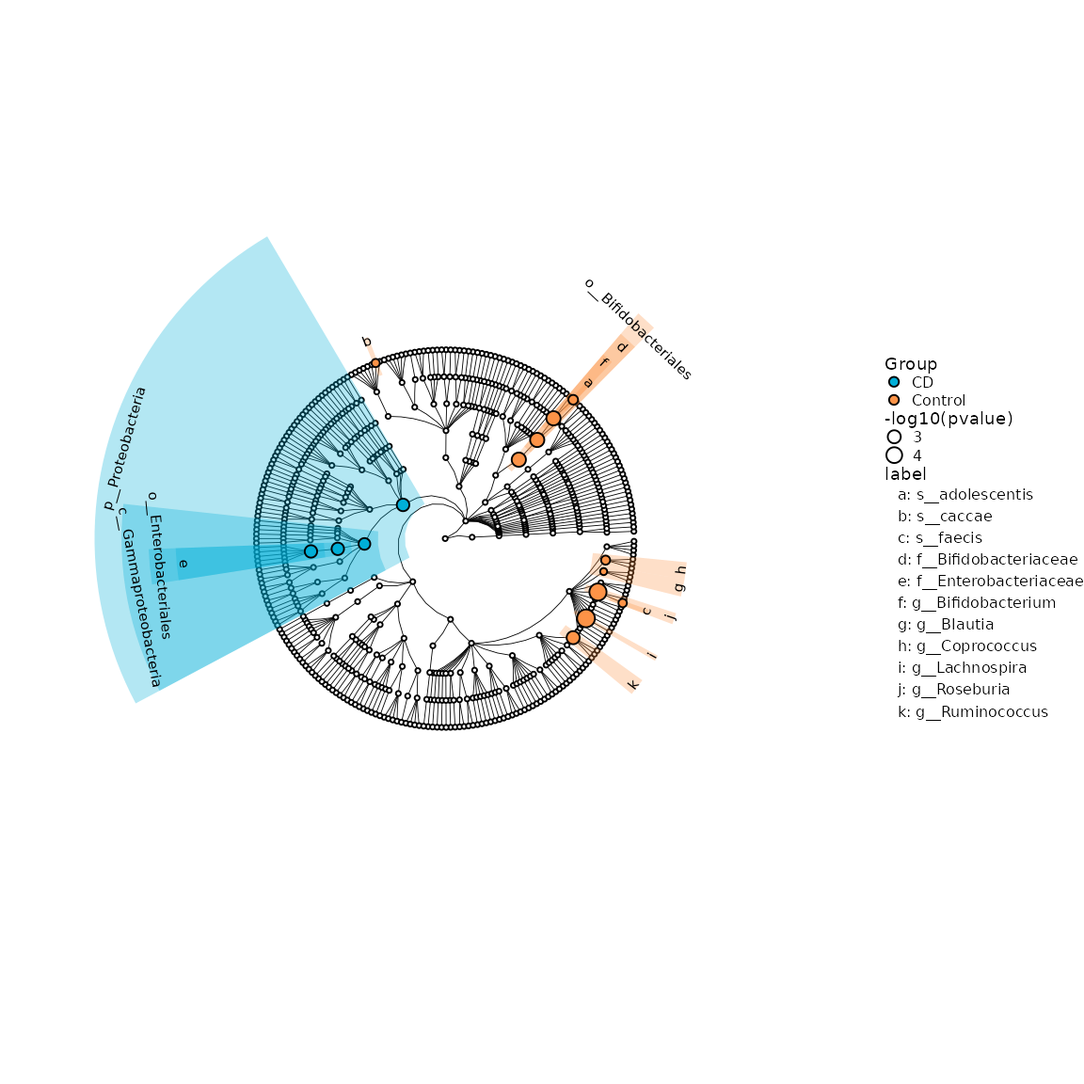
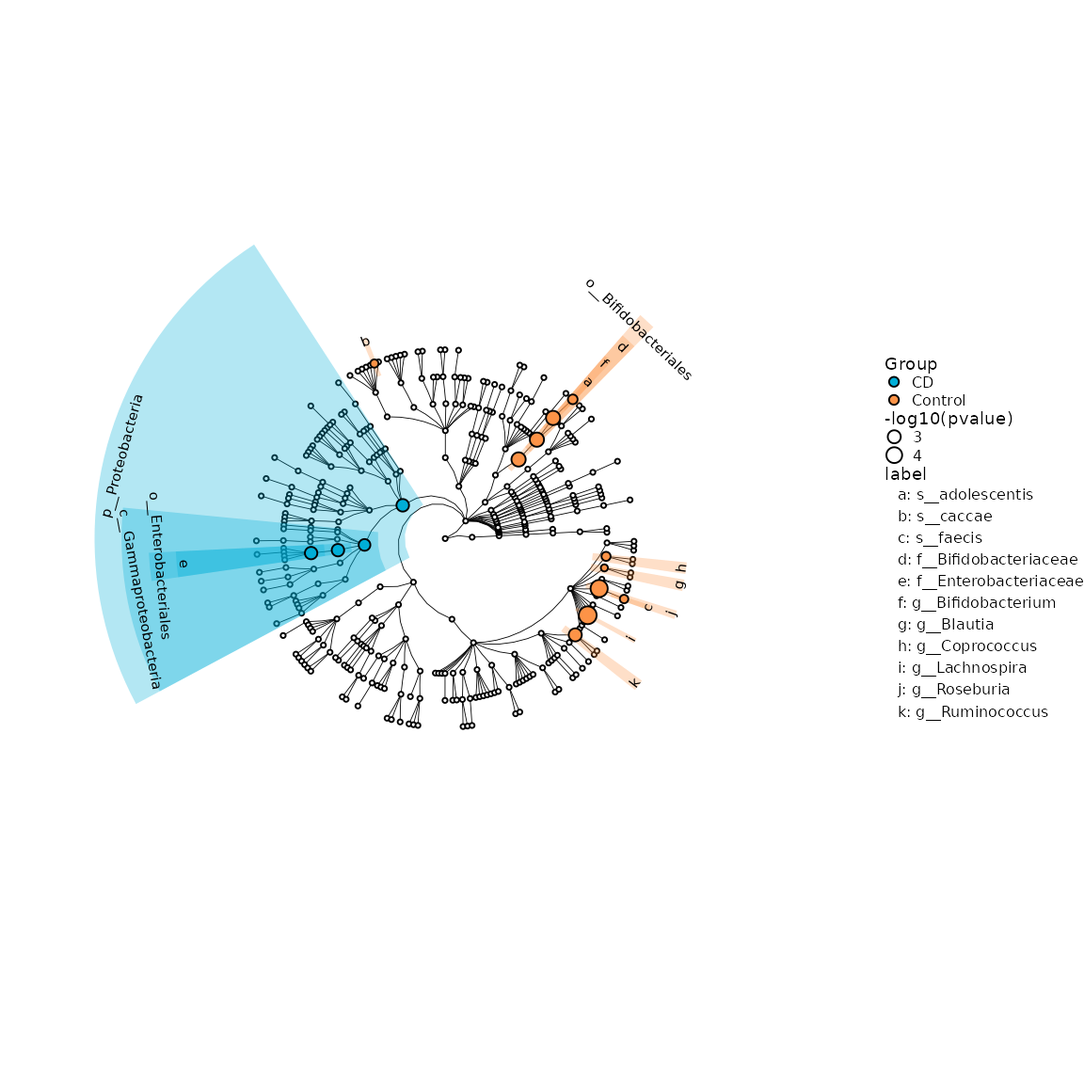
Deploying to gh-pages from  @ c947449fc275c5dd3808da46b4ffad3d5383f90d 🚀

Changed region(s): [[0.0938, 0.2812, 0.625, 0.6875], [0.2188, 0.2188, 0.2812, 0.2812], [0.5312, 0.25, 0.5625, 0.2812]]

diff --git a/articles/MicrobiotaProcessWorkshop.html b/articles/MicrobiotaProcessWorkshop.html
@@ -97,6 +97,9 @@
     <span class="kw"><a href="https://rdrr.io/r/base/library.html">library</a></span><span class="op">(</span><span class="va"><a href="http://ggplot2.tidyverse.org">ggplot2</a></span><span class="op">)</span>
     <span class="kw"><a href="https://rdrr.io/r/base/library.html">library</a></span><span class="op">(</span><span class="va"><a href="http://tidyverse.tidyverse.org">tidyverse</a></span><span class="op">)</span>
     <span class="kw"><a href="https://rdrr.io/r/base/library.html">library</a></span><span class="op">(</span><span class="va"><a href="https://cran.r-project.org">vegan</a></span><span class="op">)</span>
+    <span class="kw"><a href="https://rdrr.io/r/base/library.html">library</a></span><span class="op">(</span><span class="va"><a href="http://coin.r-forge.r-project.org">coin</a></span><span class="op">)</span>
+    <span class="kw"><a href="https://rdrr.io/r/base/library.html">library</a></span><span class="op">(</span><span class="va"><a href="https://github.com/hadley/reshape">reshape2</a></span><span class="op">)</span>
+    <span class="kw"><a href="https://rdrr.io/r/base/library.html">library</a></span><span class="op">(</span><span class="va">ggnewscale</span><span class="op">)</span>
 <span class="op">}</span><span class="op">)</span></pre></div>
 <p>Here, we use the 43 pediatric IBD stool samples as example, obtained from the Integrative Human Microbiome Project Consortium (iHMP).</p>
 </div>
@@ -402,16 +405,18 @@ Example of PCoA of samples
                   layout <span class="op">=</span> <span class="st">"rectangular"</span>,
                   pointsize<span class="op">=</span><span class="fl">1</span>,
                   fontsize<span class="op">=</span><span class="fl">0</span>,
-                  factorNames<span class="op">=</span><span class="fu"><a href="https://rdrr.io/r/base/c.html">c</a></span><span class="op">(</span><span class="st">"Group"</span><span class="op">)</span><span class="op">)</span> <span class="op">+</span>
+                  factorNames<span class="op">=</span><span class="fu"><a href="https://rdrr.io/r/base/c.html">c</a></span><span class="op">(</span><span class="st">"Group"</span><span class="op">)</span>
+              <span class="op">)</span> <span class="op">+</span>
               <span class="fu"><a href="https://ggplot2.tidyverse.org/reference/scale_manual.html">scale_color_manual</a></span><span class="op">(</span>values<span class="op">=</span><span class="fu"><a href="https://rdrr.io/r/base/c.html">c</a></span><span class="op">(</span><span class="st">"#00AED7"</span>, <span class="st">"#FD9347"</span><span class="op">)</span><span class="op">)</span> <span class="op">+</span>
-          <span class="fu"><a href="https://rdrr.io/pkg/ggtree/man/theme_tree2.html">theme_tree2</a></span><span class="op">(</span>legend.position<span class="op">=</span><span class="st">"right"</span>,
+              <span class="fu"><a href="https://rdrr.io/pkg/ggtree/man/theme_tree2.html">theme_tree2</a></span><span class="op">(</span>legend.position<span class="op">=</span><span class="st">"right"</span>,
               plot.title <span class="op">=</span> <span class="fu"><a href="https://ggplot2.tidyverse.org/reference/element.html">element_text</a></span><span class="op">(</span>face<span class="op">=</span><span class="st">"bold"</span>, lineheight<span class="op">=</span><span class="fl">25</span>,hjust<span class="op">=</span><span class="fl">0.5</span><span class="op">)</span><span class="op">)</span>
 <span class="co"># circular layout</span>
 <span class="va">cplot2</span> <span class="op">&lt;-</span> <span class="fu"><a href="https://rdrr.io/pkg/MicrobiotaProcess/man/ggclust.html">ggclust</a></span><span class="op">(</span>obj<span class="op">=</span><span class="va">hcsample</span>,
                   layout <span class="op">=</span> <span class="st">"circular"</span>,
-              pointsize<span class="op">=</span><span class="fl">1</span>,
-              fontsize<span class="op">=</span><span class="fl">2</span>,
-             factorNames<span class="op">=</span><span class="fu"><a href="https://rdrr.io/r/base/c.html">c</a></span><span class="op">(</span><span class="st">"Group"</span><span class="op">)</span><span class="op">)</span> <span class="op">+</span>
+                  pointsize<span class="op">=</span><span class="fl">1</span>,
+                  fontsize<span class="op">=</span><span class="fl">2</span>,
+                  factorNames<span class="op">=</span><span class="fu"><a href="https://rdrr.io/r/base/c.html">c</a></span><span class="op">(</span><span class="st">"Group"</span><span class="op">)</span>
+          <span class="op">)</span> <span class="op">+</span>
           <span class="fu"><a href="https://ggplot2.tidyverse.org/reference/scale_manual.html">scale_color_manual</a></span><span class="op">(</span>values<span class="op">=</span><span class="fu"><a href="https://rdrr.io/r/base/c.html">c</a></span><span class="op">(</span><span class="st">"#00AED7"</span>, <span class="st">"#FD9347"</span><span class="op">)</span><span class="op">)</span> <span class="op">+</span>
           <span class="fu"><a href="https://ggplot2.tidyverse.org/reference/theme.html">theme</a></span><span class="op">(</span>legend.position<span class="op">=</span><span class="st">"right"</span><span class="op">)</span>
 <span class="va">cplot1</span> <span class="op">|</span> <span class="va">cplot2</span></pre></div>
@@ -465,6 +470,7 @@ Example of hierarchical clustering of samples
                    layout<span class="op">=</span><span class="st">"radial"</span>,
                    taxlevel<span class="op">=</span><span class="fl">3</span>, 
                    removeUnkown<span class="op">=</span><span class="cn">TRUE</span>,
+                   reduce<span class="op">=</span><span class="cn">TRUE</span> <span class="co"># This argument is to remove the branch of unknown taxonomy.</span>
                <span class="op">)</span> <span class="op">+</span>
                <span class="fu"><a href="https://ggplot2.tidyverse.org/reference/scale_manual.html">scale_fill_manual</a></span><span class="op">(</span>
                    values<span class="op">=</span><span class="fu"><a href="https://rdrr.io/r/base/c.html">c</a></span><span class="op">(</span><span class="st">"#00AED7"</span>, <span class="st">"#FD9347"</span><span class="op">)</span>
@@ -535,6 +541,78 @@ Example of effect size of biomarker
 </p>
 </div>
 </div>
+<div id="correlation-of-taxonomy" class="section level2">
+<h2 class="hasAnchor">
+<a href="#correlation-of-taxonomy" class="anchor"></a>Correlation of taxonomy</h2>
+<p>The result of different analysis also can be visualized with result of correlation.</p>
+<div class="sourceCode" id="cb20"><pre class="downlit">
+<span class="va">genustab</span> <span class="op">&lt;-</span> <span class="fu"><a href="https://rdrr.io/pkg/MicrobiotaProcess/man/get_taxadf.html">get_taxadf</a></span><span class="op">(</span><span class="va">ps</span>, taxlevel<span class="op">=</span><span class="fl">6</span><span class="op">)</span>
+<span class="va">genustab</span> <span class="op">&lt;-</span> <span class="fu"><a href="https://rdrr.io/r/base/data.frame.html">data.frame</a></span><span class="op">(</span><span class="fu"><a href="https://rdrr.io/pkg/phyloseq/man/transpose-methods.html">t</a></span><span class="op">(</span><span class="va">genustab</span><span class="op">@</span><span class="va">otu_table</span><span class="op">)</span>, check.names<span class="op">=</span><span class="cn">FALSE</span><span class="op">)</span>
+<span class="va">genustab</span> <span class="op">&lt;-</span> <span class="fu"><a href="https://rdrr.io/r/base/data.frame.html">data.frame</a></span><span class="op">(</span><span class="fu"><a href="https://rdrr.io/r/base/apply.html">apply</a></span><span class="op">(</span><span class="va">genustab</span>, <span class="fl">2</span>, <span class="kw">function</span><span class="op">(</span><span class="va">x</span><span class="op">)</span><span class="va">x</span><span class="op">/</span><span class="fu"><a href="https://rdrr.io/r/base/sum.html">sum</a></span><span class="op">(</span><span class="va">x</span><span class="op">)</span><span class="op">)</span>, check.names<span class="op">=</span><span class="cn">FALSE</span><span class="op">)</span>
+
+<span class="va">cortest</span> <span class="op">&lt;-</span> <span class="fu">WGCNA</span><span class="fu">::</span><span class="fu"><a href="https://rdrr.io/pkg/WGCNA/man/corAndPvalue.html">corAndPvalue</a></span><span class="op">(</span><span class="va">genustab</span>, method<span class="op">=</span><span class="st">"spearman"</span>, alternative<span class="op">=</span><span class="st">"two.sided"</span><span class="op">)</span>
+<span class="va">cortest</span><span class="op">$</span><span class="va">cor</span><span class="op">[</span><span class="fu"><a href="https://rdrr.io/r/base/lower.tri.html">upper.tri</a></span><span class="op">(</span><span class="va">cortest</span><span class="op">$</span><span class="va">cor</span>, diag <span class="op">=</span> <span class="cn">TRUE</span><span class="op">)</span><span class="op">]</span> <span class="op">&lt;-</span> <span class="cn">NA</span>
+<span class="va">cortest</span><span class="op">$</span><span class="va">p</span><span class="op">[</span><span class="fu"><a href="https://rdrr.io/r/base/lower.tri.html">upper.tri</a></span><span class="op">(</span><span class="va">cortest</span><span class="op">$</span><span class="va">p</span>, diag <span class="op">=</span> <span class="cn">TRUE</span><span class="op">)</span><span class="op">]</span> <span class="op">&lt;-</span> <span class="cn">NA</span>
+<span class="va">cortab1</span> <span class="op">&lt;-</span> <span class="fu"><a href="https://rdrr.io/r/stats/na.fail.html">na.omit</a></span><span class="op">(</span><span class="fu"><a href="https://rdrr.io/pkg/reshape2/man/melt.html">melt</a></span><span class="op">(</span><span class="fu"><a href="https://rdrr.io/pkg/phyloseq/man/transpose-methods.html">t</a></span><span class="op">(</span><span class="va">cortest</span><span class="op">$</span><span class="va">cor</span><span class="op">)</span><span class="op">)</span><span class="op">)</span> <span class="op">%&gt;%</span> <span class="fu">rename</span><span class="op">(</span>from<span class="op">=</span><span class="va">Var1</span>,to<span class="op">=</span><span class="va">Var2</span>,cor<span class="op">=</span><span class="va">value</span><span class="op">)</span>
+<span class="va">corptab1</span> <span class="op">&lt;-</span> <span class="fu"><a href="https://rdrr.io/r/stats/na.fail.html">na.omit</a></span><span class="op">(</span><span class="fu"><a href="https://rdrr.io/pkg/reshape2/man/melt.html">melt</a></span><span class="op">(</span><span class="fu"><a href="https://rdrr.io/pkg/phyloseq/man/transpose-methods.html">t</a></span><span class="op">(</span><span class="va">cortest</span><span class="op">$</span><span class="va">p</span><span class="op">)</span><span class="op">)</span><span class="op">)</span> <span class="op">%&gt;%</span> <span class="fu">rename</span><span class="op">(</span>pvalue<span class="op">=</span><span class="va">value</span><span class="op">)</span>
+<span class="va">cortab1</span><span class="op">$</span><span class="va">fdr</span> <span class="op">&lt;-</span> <span class="fu"><a href="https://rdrr.io/r/stats/p.adjust.html">p.adjust</a></span><span class="op">(</span><span class="va">corptab1</span><span class="op">$</span><span class="va">pvalue</span>, method<span class="op">=</span><span class="st">"fdr"</span><span class="op">)</span>
+
+<span class="va">cortab1</span> <span class="op">&lt;-</span> <span class="va">cortab1</span> <span class="op">%&gt;%</span> <span class="fu">mutate</span><span class="op">(</span>correlation<span class="op">=</span><span class="fu">case_when</span><span class="op">(</span><span class="va">cor</span><span class="op">&gt;</span><span class="fl">0</span> <span class="op">~</span> <span class="st">"positive"</span>,<span class="va">cor</span> <span class="op">&lt;</span> <span class="fl">0</span> <span class="op">~</span> <span class="st">"negative"</span>,<span class="cn">TRUE</span> <span class="op">~</span> <span class="st">"No"</span><span class="op">)</span><span class="op">)</span>
+<span class="va">cortab2</span> <span class="op">&lt;-</span> <span class="va">cortab1</span> <span class="op">%&gt;%</span> <span class="fu"><a href="https://rdrr.io/r/stats/filter.html">filter</a></span><span class="op">(</span><span class="va">fdr</span> <span class="op">&lt;=</span> <span class="fl">0.05</span><span class="op">)</span> <span class="op">%&gt;%</span> <span class="fu"><a href="https://rdrr.io/r/stats/filter.html">filter</a></span><span class="op">(</span><span class="va">cor</span> <span class="op">&lt;=</span> <span class="op">-</span><span class="fl">0.5</span> <span class="op">|</span> <span class="va">cor</span> <span class="op">&gt;=</span> <span class="fl">0.8</span><span class="op">)</span>
+
+<span class="va">p</span> <span class="op">&lt;-</span> <span class="fu"><a href="https://rdrr.io/pkg/MicrobiotaProcess/man/ggdiffclade.html">ggdiffclade</a></span><span class="op">(</span>
+         obj<span class="op">=</span><span class="va">deres</span>,
+         alpha<span class="op">=</span><span class="fl">0.3</span>,
+         linewd<span class="op">=</span><span class="fl">0.25</span>,
+         skpointsize<span class="op">=</span><span class="fl">0.2</span>,
+         layout<span class="op">=</span><span class="st">"inward_circular"</span>,
+         taxlevel<span class="op">=</span><span class="fl">7</span>,
+         cladetext<span class="op">=</span><span class="fl">0</span>,
+         setColors<span class="op">=</span><span class="cn">FALSE</span>,
+         xlim<span class="op">=</span><span class="fl">16</span>
+     <span class="op">)</span> <span class="op">+</span>
+     <span class="fu"><a href="https://ggplot2.tidyverse.org/reference/scale_manual.html">scale_fill_manual</a></span><span class="op">(</span>values<span class="op">=</span><span class="fu"><a href="https://rdrr.io/r/base/c.html">c</a></span><span class="op">(</span><span class="st">"#00AED7"</span>, <span class="st">"#FD9347"</span><span class="op">)</span>,
+                       guide<span class="op">=</span><span class="fu"><a href="https://ggplot2.tidyverse.org/reference/guide_legend.html">guide_legend</a></span><span class="op">(</span>keywidth<span class="op">=</span><span class="fl">0.5</span>,
+                                          keyheight<span class="op">=</span><span class="fl">0.5</span>,
+                                          order<span class="op">=</span><span class="fl">3</span>,
+                                          override.aes<span class="op">=</span><span class="fu"><a href="https://rdrr.io/r/base/list.html">list</a></span><span class="op">(</span>alpha<span class="op">=</span><span class="fl">1</span><span class="op">)</span><span class="op">)</span>
+     <span class="op">)</span> <span class="op">+</span>
+     <span class="fu"><a href="https://ggplot2.tidyverse.org/reference/scale_size.html">scale_size_continuous</a></span><span class="op">(</span>range<span class="op">=</span><span class="fu"><a href="https://rdrr.io/r/base/c.html">c</a></span><span class="op">(</span><span class="fl">1</span>, <span class="fl">3</span><span class="op">)</span>,
+                       guide<span class="op">=</span><span class="fu"><a href="https://ggplot2.tidyverse.org/reference/guide_legend.html">guide_legend</a></span><span class="op">(</span>keywidth<span class="op">=</span><span class="fl">0.5</span>,keyheight<span class="op">=</span><span class="fl">0.5</span>,order<span class="op">=</span><span class="fl">4</span>,
+                                          override.aes<span class="op">=</span><span class="fu"><a href="https://rdrr.io/r/base/list.html">list</a></span><span class="op">(</span>shape<span class="op">=</span><span class="fl">21</span><span class="op">)</span><span class="op">)</span><span class="op">)</span> <span class="op">+</span>
+     <span class="fu"><a href="https://ggplot2.tidyverse.org/reference/scale_manual.html">scale_colour_manual</a></span><span class="op">(</span>values<span class="op">=</span><span class="fu"><a href="https://rdrr.io/r/base/rep.html">rep</a></span><span class="op">(</span><span class="st">"white"</span>, <span class="fl">100</span><span class="op">)</span>,guide<span class="op">=</span><span class="st">"none"</span><span class="op">)</span>
+
+<span class="va">p2</span> <span class="op">&lt;-</span> <span class="va">p</span> <span class="op">+</span>
+      <span class="fu"><a href="https://rdrr.io/pkg/ggnewscale/man/new_scale.html">new_scale_color</a></span><span class="op">(</span><span class="op">)</span> <span class="op">+</span>
+      <span class="fu"><a href="https://rdrr.io/pkg/ggnewscale/man/new_scale.html">new_scale</a></span><span class="op">(</span><span class="st">"size"</span><span class="op">)</span> <span class="op">+</span>
+      <span class="fu"><a href="https://rdrr.io/pkg/ggtree/man/geom_tiplab.html">geom_tiplab</a></span><span class="op">(</span>size<span class="op">=</span><span class="fl">1</span>, hjust<span class="op">=</span><span class="fl">1</span><span class="op">)</span> <span class="op">+</span>
+      <span class="fu"><a href="https://rdrr.io/pkg/ggtree/man/geom_taxalink.html">geom_taxalink</a></span><span class="op">(</span>
+          data<span class="op">=</span><span class="va">cortab2</span>,
+          mapping<span class="op">=</span><span class="fu"><a href="https://ggplot2.tidyverse.org/reference/aes.html">aes</a></span><span class="op">(</span>taxa1<span class="op">=</span><span class="va">from</span>,
+                      taxa2<span class="op">=</span><span class="va">to</span>,
+                      colour<span class="op">=</span><span class="va">correlation</span>,
+                      size<span class="op">=</span><span class="fu"><a href="https://rdrr.io/r/base/MathFun.html">abs</a></span><span class="op">(</span><span class="va">cor</span><span class="op">)</span><span class="op">)</span>,
+          alpha<span class="op">=</span><span class="fl">0.4</span>,
+          ncp<span class="op">=</span><span class="fl">10</span>,
+          hratio<span class="op">=</span><span class="fl">1</span>,
+          offset<span class="op">=</span><span class="fl">1.2</span>
+      <span class="op">)</span> <span class="op">+</span>
+      <span class="fu"><a href="https://ggplot2.tidyverse.org/reference/scale_size.html">scale_size_continuous</a></span><span class="op">(</span>range <span class="op">=</span> <span class="fu"><a href="https://rdrr.io/r/base/c.html">c</a></span><span class="op">(</span><span class="fl">0.2</span>, <span class="fl">1</span><span class="op">)</span>,
+                            guide<span class="op">=</span><span class="fu"><a href="https://ggplot2.tidyverse.org/reference/guide_legend.html">guide_legend</a></span><span class="op">(</span>keywidth<span class="op">=</span><span class="fl">1</span>, keyheight<span class="op">=</span><span class="fl">0.5</span>,
+                                               order<span class="op">=</span><span class="fl">1</span>, override.aes<span class="op">=</span><span class="fu"><a href="https://rdrr.io/r/base/list.html">list</a></span><span class="op">(</span>alpha<span class="op">=</span><span class="fl">1</span><span class="op">)</span><span class="op">)</span>
+      <span class="op">)</span> <span class="op">+</span>
+      <span class="fu"><a href="https://ggplot2.tidyverse.org/reference/scale_manual.html">scale_colour_manual</a></span><span class="op">(</span>values<span class="op">=</span><span class="fu"><a href="https://rdrr.io/r/base/c.html">c</a></span><span class="op">(</span><span class="st">"chocolate2"</span>, <span class="st">"#009E73"</span><span class="op">)</span>,
+                          guide<span class="op">=</span><span class="fu"><a href="https://ggplot2.tidyverse.org/reference/guide_legend.html">guide_legend</a></span><span class="op">(</span>keywidth<span class="op">=</span><span class="fl">0.5</span>, keyheight<span class="op">=</span><span class="fl">0.5</span>,
+                          order<span class="op">=</span><span class="fl">2</span>, override.aes<span class="op">=</span><span class="fu"><a href="https://rdrr.io/r/base/list.html">list</a></span><span class="op">(</span>alpha<span class="op">=</span><span class="fl">1</span>, size<span class="op">=</span><span class="fl">1</span><span class="op">)</span><span class="op">)</span><span class="op">)</span>
+<span class="va">p2</span></pre></div>
+<details><p><summary>plot</summary></p>
+<div class="figure" style="text-align: center">
+<img src="MicrobiotaProcessWorkshop_files/figure-html/plotcorAnddiff-1.png" alt="\label{fig:clade}Example of different biomarker clade and correlation of genera" width="576"><p class="caption">
+Example of different biomarker clade and correlation of genera
+</p>
+</div>
+</details>
+</div>
 <div id="session-information" class="section level2">
 <h2 class="hasAnchor">
 <a href="#session-information" class="anchor"></a>Session information</h2>
@@ -559,57 +637,64 @@ Example of effect size of biomarker
 #&gt; [1] stats     graphics  grDevices utils     datasets  methods   base     
 #&gt; 
 #&gt; other attached packages:
-#&gt;  [1] gdtools_0.2.2            coin_1.3-1               survival_3.1-12         
-#&gt;  [4] ggtree_2.3.7             patchwork_1.0.1          kableExtra_1.2.1        
-#&gt;  [7] vegan_2.5-6              lattice_0.20-41          permute_0.9-5           
-#&gt; [10] forcats_0.5.0            stringr_1.4.0            dplyr_1.0.2             
-#&gt; [13] purrr_0.3.4              readr_1.4.0              tidyr_1.1.2             
-#&gt; [16] tibble_3.0.4             tidyverse_1.3.0          ggplot2_3.3.2           
-#&gt; [19] phyloseq_1.33.0          MicrobiotaProcess_1.1.10
+#&gt;  [1] gdtools_0.2.2            ggtree_2.3.7             patchwork_1.0.1         
+#&gt;  [4] kableExtra_1.2.1         ggnewscale_0.4.3         reshape2_1.4.4          
+#&gt;  [7] coin_1.3-1               survival_3.1-12          vegan_2.5-6             
+#&gt; [10] lattice_0.20-41          permute_0.9-5            forcats_0.5.0           
+#&gt; [13] stringr_1.4.0            dplyr_1.0.2              purrr_0.3.4             
+#&gt; [16] readr_1.4.0              tidyr_1.1.2              tibble_3.0.4            
+#&gt; [19] tidyverse_1.3.0          ggplot2_3.3.2            phyloseq_1.33.0         
+#&gt; [22] MicrobiotaProcess_1.1.10
 #&gt; 
 #&gt; loaded via a namespace (and not attached):
-#&gt;   [1] readxl_1.3.1        backports_1.1.10    fastmatch_1.1-0    
-#&gt;   [4] systemfonts_0.3.2   plyr_1.8.6          igraph_1.2.6       
-#&gt;   [7] selectr_0.4-2       lazyeval_0.2.2      splines_4.0.2      
-#&gt;  [10] TH.data_1.0-10      digest_0.6.25       foreach_1.5.0      
-#&gt;  [13] htmltools_0.5.0     fansi_0.4.1         magrittr_1.5       
-#&gt;  [16] memoise_1.1.0       cluster_2.1.0       DECIPHER_2.17.1    
-#&gt;  [19] Biostrings_2.57.2   modelr_0.1.8        matrixStats_0.57.0 
-#&gt;  [22] svglite_1.2.3.2     sandwich_3.0-0      pkgdown_1.6.1      
-#&gt;  [25] colorspace_1.4-1    blob_1.2.1          rvest_0.3.6        
-#&gt;  [28] ggrepel_0.8.2       textshaping_0.1.2   haven_2.3.1        
-#&gt;  [31] xfun_0.18           crayon_1.3.4        jsonlite_1.7.1     
-#&gt;  [34] libcoin_1.0-6       zoo_1.8-8           phangorn_2.5.5     
-#&gt;  [37] iterators_1.0.12    ape_5.4-1           glue_1.4.2         
-#&gt;  [40] gtable_0.3.0        zlibbioc_1.35.0     XVector_0.29.3     
-#&gt;  [43] webshot_0.5.2       Rhdf5lib_1.11.3     BiocGenerics_0.35.4
-#&gt;  [46] rentrez_1.2.2       scales_1.1.1        mvtnorm_1.1-1      
-#&gt;  [49] DBI_1.1.0           Rcpp_1.0.5          viridisLite_0.3.0  
-#&gt;  [52] tidytree_0.3.3      bit_4.0.4           stats4_4.0.2       
-#&gt;  [55] httr_1.4.2          RColorBrewer_1.1-2  modeltools_0.2-23  
-#&gt;  [58] ellipsis_0.3.1      pkgconfig_2.0.3     reshape_0.8.8      
-#&gt;  [61] XML_3.99-0.5        farver_2.0.3        dbplyr_1.4.4       
-#&gt;  [64] tidyselect_1.1.0    labeling_0.3        rlang_0.4.8        
-#&gt;  [67] reshape2_1.4.4      munsell_0.5.0       cellranger_1.1.0   
-#&gt;  [70] tools_4.0.2         cli_2.1.0           generics_0.0.2     
-#&gt;  [73] RSQLite_2.2.1       ade4_1.7-15         broom_0.7.1        
-#&gt;  [76] evaluate_0.14       biomformat_1.17.0   yaml_2.2.1         
-#&gt;  [79] ragg_0.4.0          knitr_1.30          bit64_4.0.5        
-#&gt;  [82] fs_1.5.0            randomForest_4.6-14 nlme_3.1-148       
-#&gt;  [85] aplot_0.0.6         xml2_1.3.2          compiler_4.0.2     
-#&gt;  [88] rstudioapi_0.11     ggsignif_0.6.0      reprex_0.3.0       
-#&gt;  [91] treeio_1.13.1       stringi_1.5.3       highr_0.8          
-#&gt;  [94] ps_1.4.0            desc_1.2.0          Matrix_1.2-18      
-#&gt;  [97] multtest_2.45.0     vctrs_0.3.4         pillar_1.4.6       
-#&gt; [100] lifecycle_0.2.0     rhdf5filters_1.1.3  BiocManager_1.30.10
-#&gt; [103] data.table_1.13.0   R6_2.4.1            Rmisc_1.5          
-#&gt; [106] IRanges_2.23.10     codetools_0.2-16    MASS_7.3-51.6      
-#&gt; [109] gtools_3.8.2        assertthat_0.2.1    rhdf5_2.33.11      
-#&gt; [112] rprojroot_1.3-2     withr_2.3.0         multcomp_1.4-14    
-#&gt; [115] S4Vectors_0.27.14   mgcv_1.8-31         parallel_4.0.2     
-#&gt; [118] hms_0.5.3           quadprog_1.5-8      grid_4.0.2         
-#&gt; [121] rmarkdown_2.4       rvcheck_0.1.8       Biobase_2.49.1     
-#&gt; [124] lubridate_1.7.9</code></pre>
+#&gt;   [1] readxl_1.3.1          backports_1.1.10      Hmisc_4.4-1          
+#&gt;   [4] fastmatch_1.1-0       systemfonts_0.3.2     plyr_1.8.6           
+#&gt;   [7] igraph_1.2.6          selectr_0.4-2         lazyeval_0.2.2       
+#&gt;  [10] splines_4.0.2         TH.data_1.0-10        digest_0.6.25        
+#&gt;  [13] foreach_1.5.0         htmltools_0.5.0       GO.db_3.11.4         
+#&gt;  [16] fansi_0.4.1           checkmate_2.0.0       magrittr_1.5         
+#&gt;  [19] memoise_1.1.0         doParallel_1.0.15     cluster_2.1.0        
+#&gt;  [22] DECIPHER_2.17.1       fastcluster_1.1.25    Biostrings_2.57.2    
+#&gt;  [25] modelr_0.1.8          matrixStats_0.57.0    svglite_1.2.3.2      
+#&gt;  [28] sandwich_3.0-0        pkgdown_1.6.1         jpeg_0.1-8.1         
+#&gt;  [31] colorspace_1.4-1      blob_1.2.1            rvest_0.3.6          
+#&gt;  [34] ggrepel_0.8.2         textshaping_0.1.2     haven_2.3.1          
+#&gt;  [37] xfun_0.18             crayon_1.3.4          jsonlite_1.7.1       
+#&gt;  [40] libcoin_1.0-6         impute_1.63.0         zoo_1.8-8            
+#&gt;  [43] phangorn_2.5.5        iterators_1.0.12      ape_5.4-1            
+#&gt;  [46] glue_1.4.2            gtable_0.3.0          zlibbioc_1.35.0      
+#&gt;  [49] XVector_0.29.3        webshot_0.5.2         Rhdf5lib_1.11.3      
+#&gt;  [52] BiocGenerics_0.35.4   rentrez_1.2.2         scales_1.1.1         
+#&gt;  [55] mvtnorm_1.1-1         DBI_1.1.0             Rcpp_1.0.5           
+#&gt;  [58] htmlTable_2.1.0       viridisLite_0.3.0     tidytree_0.3.3       
+#&gt;  [61] foreign_0.8-80        bit_4.0.4             preprocessCore_1.51.0
+#&gt;  [64] Formula_1.2-3         stats4_4.0.2          htmlwidgets_1.5.2    
+#&gt;  [67] httr_1.4.2            RColorBrewer_1.1-2    modeltools_0.2-23    
+#&gt;  [70] ellipsis_0.3.1        pkgconfig_2.0.3       reshape_0.8.8        
+#&gt;  [73] XML_3.99-0.5          farver_2.0.3          nnet_7.3-14          
+#&gt;  [76] dbplyr_1.4.4          dynamicTreeCut_1.63-1 AnnotationDbi_1.51.3 
+#&gt;  [79] tidyselect_1.1.0      labeling_0.3          rlang_0.4.8          
+#&gt;  [82] munsell_0.5.0         cellranger_1.1.0      tools_4.0.2          
+#&gt;  [85] cli_2.1.0             generics_0.0.2        RSQLite_2.2.1        
+#&gt;  [88] ade4_1.7-15           broom_0.7.1           evaluate_0.14        
+#&gt;  [91] biomformat_1.17.0     yaml_2.2.1            ragg_0.4.0           
+#&gt;  [94] knitr_1.30            bit64_4.0.5           fs_1.5.0             
+#&gt;  [97] randomForest_4.6-14   nlme_3.1-148          aplot_0.0.6          
+#&gt; [100] xml2_1.3.2            compiler_4.0.2        rstudioapi_0.11      
+#&gt; [103] png_0.1-7             ggsignif_0.6.0        reprex_0.3.0         
+#&gt; [106] treeio_1.13.1         stringi_1.5.3         highr_0.8            
+#&gt; [109] ps_1.4.0              desc_1.2.0            Matrix_1.2-18        
+#&gt; [112] multtest_2.45.0       vctrs_0.3.4           pillar_1.4.6         
+#&gt; [115] lifecycle_0.2.0       rhdf5filters_1.1.3    BiocManager_1.30.10  
+#&gt; [118] data.table_1.13.0     latticeExtra_0.6-29   R6_2.4.1             
+#&gt; [121] Rmisc_1.5             gridExtra_2.3         IRanges_2.23.10      
+#&gt; [124] codetools_0.2-16      MASS_7.3-51.6         gtools_3.8.2         
+#&gt; [127] assertthat_0.2.1      rhdf5_2.33.11         rprojroot_1.3-2      
+#&gt; [130] withr_2.3.0           multcomp_1.4-14       S4Vectors_0.27.14    
+#&gt; [133] mgcv_1.8-31           parallel_4.0.2        hms_0.5.3            
+#&gt; [136] rpart_4.1-15          quadprog_1.5-8        grid_4.0.2           
+#&gt; [139] rmarkdown_2.4         rvcheck_0.1.8         base64enc_0.1-3      
+#&gt; [142] WGCNA_1.69            Biobase_2.49.1        lubridate_1.7.9</code></pre>
 </details>
 </div>
 <div id="reference" class="section level2">
